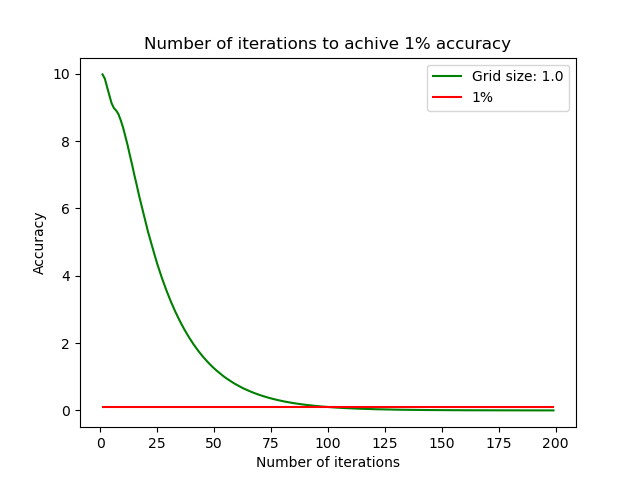
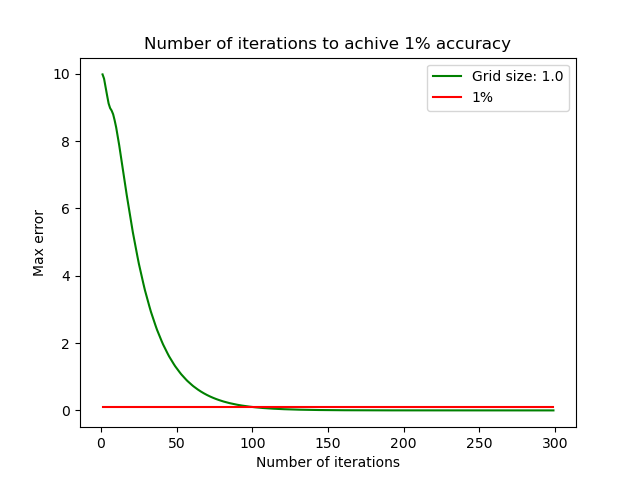
Fixade 4.1

diff --git a/Project 4/elec_template-ab.py b/Project 4/elec_template-ab.py
@@ -11,23 +11,23 @@ n = 10
 # The grid spacing is L/n
 
 # The number of iterations
-nsteps = 10
-nsteps_list = range(1,100)
+#nsteps = 10
+nsteps_list = range(1,300)
 error_max_array = []        # should have the same size as nsteps_list
 v_exact = 10
 
 # Initialize the grid to 0
 # 10% lower potential 
-v = np.ones((n+1, n+1)) * 9
-vold = np.zeros((n+1, n+1)) * 9
-vnew = np.zeros((n+1, n+1)) * 9
+v = np.zeros((n+1, n+1)) * 9
+#vold = np.zeros((n+1, n+1)) * 9
+#vnew = np.zeros((n+1, n+1)) * 9
 
 # 4.1b
 #v = np.ones((n+1, n+1)) * 0
 
-'''# 10.10b
-for i in v:
-    i[5] += 4'''
+# 10.10b
+#for i in v:
+#    i[5] += 4
 
 # Set the boundary conditions
 for i in range(1,n):
@@ -109,7 +109,7 @@ def E4_1a():
     plt.xlabel("Number of iterations")
     plt.ylabel("Max error")
     plt.plot(nsteps_list, newsmooth, "g", label="Grid size: "+ str(L/n))
-    plt.plot(nsteps_list, [0.01]*len(nsteps_list), 'r', label="1%")
+    plt.plot(nsteps_list, [0.1]*len(nsteps_list), 'r', label="1%")
     plt.legend()
     plt.show()
 
